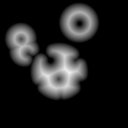
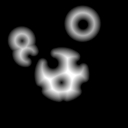
Added distance field outline effect.

Changed region(s): [[0.0312, 0.0, 0.8125, 0.8125]]

diff --git a/cocos2d/CCEffectDFOutline.m b/cocos2d/CCEffectDFOutline.m
@@ -11,14 +11,18 @@
 #import "CCRenderer.h"
 #import "CCTexture.h"
 
-@implementation CCEffectDFOutline
+@implementation CCEffectDFOutline {
+    float _outerMin;
+    float _outerMax;
+    float _fieldScaleFactor;
+}
 
 -(id)init
 {
-    return [self initWithOutlineColor:[CCColor redColor] fillColor:[CCColor blackColor]];
+    return [self initWithOutlineColor:[CCColor redColor] fillColor:[CCColor blackColor] outlineWidth:3 fieldScale:32];
 }
 
--(id)initWithOutlineColor:(CCColor*)outlineColor fillColor:(CCColor*)fillColor
+-(id)initWithOutlineColor:(CCColor*)outlineColor fillColor:(CCColor*)fillColor outlineWidth:(int)outlineWidth fieldScale:(float)fieldScale
 {
     NSArray *uniforms = @[
                           [CCEffectUniform uniform:@"vec4" name:@"u_fillColor" value:[NSValue valueWithGLKVector4:[CCColor blackColor].glkVector4]],
@@ -29,8 +33,8 @@
     
     if((self = [super initWithFragmentUniforms:uniforms vertexUniforms:nil varyings:nil]))
     {
-        _outlineInnerWidth = 0.08;
-        _outlineOuterWidth = 0.08;
+        _fieldScaleFactor = 32.0f; // 32 4096/128 (input distance field size / output df size)
+        self.outlineWidth = 3;
         _fillColor = fillColor;
         _outlineColor = outlineColor;
         
@@ -39,9 +43,9 @@
     return self;
 }
 
-+(id)effectWithOutlineColor:(CCColor*)outlineColor fillColor:(CCColor*)fillColor
++(id)effectWithOutlineColor:(CCColor*)outlineColor fillColor:(CCColor*)fillColor outlineWidth:(int)outlineWidth fieldScale:(float)fieldScale
 {
-    return [[self alloc] initWithOutlineColor:outlineColor fillColor:fillColor];
+    return [[self alloc] initWithOutlineColor:outlineColor fillColor:fillColor outlineWidth:outlineWidth fieldScale:fieldScale];
 }
 
 -(void)buildFragmentFunctions
@@ -61,15 +65,14 @@
                                    
                                    // soft edges
                                    outputColor.a *= smoothstep(min, max, distAlphaMask);
-                                   
-                                   vec4 glowTexel = texture2D(cc_MainTexture, cc_FragTexCoord1);
-//                                       min -= 0.2;
-//                                       max += 0.2;
-                                   
+                                  
                                    min = u_outlineOuterWidth.x;
                                    max = u_outlineOuterWidth.y;
-                                   min = 0.3;
-                                   max = 0.34;
+                                   if(min == 0.5 && max == 0.5)
+                                       return outputColor;
+                                   
+                                   vec4 glowTexel = texture2D(cc_MainTexture, cc_FragTexCoord1);
+                                  
                                    
                                    vec4 glowc = u_outlineColor * smoothstep(min, max, glowTexel.r);
                                    
@@ -100,38 +103,25 @@
         pass.shaderUniforms[weakSelf.uniformTranslationTable[@"u_fillColor"]] = [NSValue valueWithGLKVector4:weakSelf.fillColor.glkVector4];
         pass.shaderUniforms[weakSelf.uniformTranslationTable[@"u_outlineColor"]] = [NSValue valueWithGLKVector4:weakSelf.outlineColor.glkVector4];
         
-        // 0.5 == center(edge),  < 0.5 == outside, > 0.5 == inside
-        float innerMin = 0.5;
-        float innerMax = (0.5 * _outlineInnerWidth) + innerMin;
-        pass.shaderUniforms[weakSelf.uniformTranslationTable[@"u_outlineInnerWidth"]] = [NSValue valueWithGLKVector2:GLKVector2Make(innerMin, innerMax)];
-        
-        float outerMin = (0.5 * (1.0 - _outlineOuterWidth));
-        float outerMax = 0.5;
-        pass.shaderUniforms[weakSelf.uniformTranslationTable[@"u_outlineOuterWidth"]] = [NSValue valueWithGLKVector2:GLKVector2Make(outerMin, outerMax)];
-        
-//        float glowWidthMin = (0.5 * (1.0 - _glowWidth));
-//        float glowWidthMax = 0.5;
-//        pass.shaderUniforms[weakSelf.uniformTranslationTable[@"u_glowWidth"]] = [NSValue valueWithGLKVector2:GLKVector2Make(glowWidthMin, glowWidthMax)];
-//        
-//        pass.shaderUniforms[weakSelf.uniformTranslationTable[@"u_outline"]] = _outline ? [NSNumber numberWithFloat:1.0f] : [NSNumber numberWithFloat:0.0f];
-//        pass.shaderUniforms[weakSelf.uniformTranslationTable[@"u_glow"]] = _glow ? [NSNumber numberWithFloat:1.0f] : [NSNumber numberWithFloat:0.0f];
-//        
-//        GLKVector2 offset = GLKVector2Make(weakSelf.glowOffset.x /  previousPassTexture.contentSize.width, weakSelf.glowOffset.y /  previousPassTexture.contentSize.height);
-//        pass.shaderUniforms[weakSelf.uniformTranslationTable[@"u_glowOffset"]] = [NSValue valueWithGLKVector2:offset];
+        pass.shaderUniforms[weakSelf.uniformTranslationTable[@"u_outlineOuterWidth"]] = [NSValue valueWithGLKVector2:GLKVector2Make(_outerMin, _outerMax)];
         
     } copy]];
     
     self.renderPasses = @[pass0];
 }
 
--(void)setOutlineInnerWidth:(float)outlineInnerWidth
+-(void)setOutlineWidth:(int)outlineWidth
 {
-    _outlineInnerWidth = clampf(outlineInnerWidth, 0.0f, 1.0f);
-}
+    
+    _outlineWidth = outlineWidth;//clampf(outlineOuterWidth, 0.0f, 1.0f);
+    
+    float outlineWidthNormalized = ((float)outlineWidth)/255.0 * _fieldScaleFactor;
+    float edgeSoftness = _outlineWidth * 0.1; // randomly chosen number that looks good to me, based on a 200 pixel spread (note: this should adjustable).
+    
+    // 0.5 == center(edge),  < 0.5 == outside, > 0.5 == inside
+    _outerMin = (0.5 * (1.0 - outlineWidthNormalized));
+    _outerMax = _outerMin + _outerMin * edgeSoftness;
 
--(void)setOutlineOuterWidth:(float)outlineOuterWidth
-{
-    _outlineOuterWidth = clampf(outlineOuterWidth, 0.0f, 1.0f);
 }
 
 @end

diff --git a/cocos2d-ui-tests/tests/CCEffectsTest.m b/cocos2d-ui-tests/tests/CCEffectsTest.m
@@ -3,15 +3,12 @@
 #import "CCNodeColor.h"
 #import "CCEffectNode.h"
 
-enum DFTest { DISTANCE_FIELD, OUTLINE };
-
 @interface CCEffectsTest : TestBase @end
 @implementation CCEffectsTest {
 #if CC_EFFECTS_EXPERIMENTAL
     CCEffectDistanceField* _distanceFieldEffect;
 #endif
     CCEffectDFOutline* _outlineEffect;
-    enum DFTest _currentEffect;
 }
 
 -(id)init
@@ -28,7 +25,6 @@ enum DFTest { DISTANCE_FIELD, OUTLINE };
 
 -(void)setupDFOutlineEffectTest
 {
-    _currentEffect = OUTLINE;
     self.subTitle = @"Distance Field Outline Test";
     
     CCSprite *environment = [CCSprite spriteWithImageNamed:@"Images/MountainPanorama.jpg"];
@@ -36,7 +32,7 @@ enum DFTest { DISTANCE_FIELD, OUTLINE };
     environment.anchorPoint = ccp(0.5, 0.5);
     environment.position = ccp(0.5f, 0.5f);
     
-    _outlineEffect = [CCEffectDFOutline effectWithOutlineColor:[CCColor redColor] fillColor:[CCColor blackColor]];
+    _outlineEffect = [CCEffectDFOutline effectWithOutlineColor:[CCColor redColor] fillColor:[CCColor blackColor] outlineWidth:3 fieldScale:32];
     
     CCSprite *sampleSprite = [CCSprite spriteWithImageNamed:@"Images/output.png"];
     sampleSprite.position = ccp(0.5, 0.5);
@@ -59,31 +55,31 @@ enum DFTest { DISTANCE_FIELD, OUTLINE };
     slider.anchorPoint = ccp(0.5f, 0.5f);
     slider.scale = 0.8;
     
-    [slider setTarget:self selector:@selector(outlineInnerWidthChange:)];
+    [slider setTarget:self selector:@selector(outlineWidthChagne:)];
     
-    CCSlider* slider2 = [[CCSlider alloc] initWithBackground:background andHandleImage:handle];
-    [slider2 setBackgroundSpriteFrame:backgroundHilite forState:CCControlStateHighlighted];
-    slider2.positionType = CCPositionTypeNormalized;
-    slider2.position = ccp(0.15f, 0.5f);
-    
-    slider2.preferredSizeType = CCSizeTypeMake(CCSizeUnitNormalized, CCSizeUnitUIPoints);
-    slider2.preferredSize = CGSizeMake(0.5f, 10);
-    slider2.rotation = 90;
-    slider2.anchorPoint = ccp(0.5f, 0.5f);
-    slider2.scale = 0.8;
-    
-    [slider2 setTarget:self selector:@selector(outlineOuterWidthChange:)];
-
     [self.contentNode addChild:environment];
     [self.contentNode addChild:slider];
-    [self.contentNode addChild:slider2];
     [self.contentNode addChild:sampleSprite];
+    
+    // 6 pixel block used for comparison;
+    CCNodeColor* block = [CCNodeColor nodeWithColor:[CCColor greenColor]];
+    block.contentSize = CGSizeMake(6.0, 6.0);
+    block.position = ccp(0.424, 0.324);
+    block.positionType = CCPositionTypeNormalized;
+    block.rotation = 32;
+//    [self.contentNode addChild:block];
+}
+
+- (void)outlineWidthChagne:(id)sender
+{
+    const int outlineWidthMax = 6;
+    CCSlider* slider = sender;
+    _outlineEffect.outlineWidth = slider.sliderValue * outlineWidthMax;
 }
 
 #if CC_EFFECTS_EXPERIMENTAL
 -(void)setupDistanceFieldEffectTest
 {
-    _currentEffect = DISTANCE_FIELD;
     self.subTitle = @"Distance Field Effect Test";
     
     //    CCNodeColor* environment = [CCNodeColor nodeWithColor:[CCColor whiteColor]];
@@ -166,25 +162,16 @@ enum DFTest { DISTANCE_FIELD, OUTLINE };
     [self.contentNode addChild:slider3];
 }
 
-#endif
-
 - (void)outlineInnerWidthChange:(id)sender
 {
     CCSlider* slider = sender;
-    if(_currentEffect == DISTANCE_FIELD)
-        _distanceFieldEffect.outlineInnerWidth = slider.sliderValue;
-    else if(_currentEffect == OUTLINE)
-        _outlineEffect.outlineInnerWidth = slider.sliderValue;
-        
+    _distanceFieldEffect.outlineInnerWidth = slider.sliderValue;
 }
 
 - (void)outlineOuterWidthChange:(id)sender
 {
     CCSlider* slider = sender;
-    if(_currentEffect == DISTANCE_FIELD)
-        _distanceFieldEffect.outlineOuterWidth = slider.sliderValue;
-    else if(_currentEffect == OUTLINE)
-        _outlineEffect.outlineOuterWidth = slider.sliderValue;
+    _distanceFieldEffect.outlineOuterWidth = slider.sliderValue;
 }
 
 - (void)glowWidthChange:(id)sender
@@ -202,6 +189,8 @@ enum DFTest { DISTANCE_FIELD, OUTLINE };
 {
     _distanceFieldEffect.outline = !_distanceFieldEffect.outline;
 }
+
+#endif
 
 #pragma mark DropShadow
 

diff --git a/cocos2d/CCEffectDFOutline.h b/cocos2d/CCEffectDFOutline.h
@@ -19,11 +19,14 @@
 /// @name Accessing Effect Attributes
 /// -----------------------------------------------------------------------
 
+/** Color of the outline */
 @property (nonatomic, strong) CCColor* fillColor;
+
+/** Color of the distance field */
 @property (nonatomic, strong) CCColor* outlineColor;
 
-@property (nonatomic) float outlineInnerWidth;
-@property (nonatomic) float outlineOuterWidth;
+/** Outline width pixel width of the outline */
+@property (nonatomic) int outlineWidth;
 
 /// -----------------------------------------------------------------------
 /// @name Initializing a CCEffectDFOutline object
@@ -39,11 +42,17 @@
 /**
  *  Initializes a CCEffectDFOutline object with the supplied parameters.
  *
- *  @param glowColor Color of the glow, a [CCColor blackColor] will result in an opaque black drop shadow.
+ *  @param outlineColor Color of the outline, a [CCColor blackColor] will result in an opaque black outline.
+ *  @param fillColor Color of the fillColor, a [CCColor blackColor] will result in an opaque black fillColor.
+ *  @param outlineWidth pixel width of the outline.
+ *  @param fieldScale, defined by the distance field generation proccess, for example a distance field that 
+ *  was generated with a 4096/4096 input and output a 128/128 texture would have a fieldScale of 32 (
+ *  input size / output size). Note: this parameter could be automatically calculated if we assume that all 
+ *  distance fields are generated from a 4096 input.
  *
  *  @return The CCEffectDFOutline object.
  */
--(id)initWithOutlineColor:(CCColor*)outlineColor fillColor:(CCColor*)fillColor;
+-(id)initWithOutlineColor:(CCColor*)outlineColor fillColor:(CCColor*)outlineColor outlineWidth:(int)outlineWidth fieldScale:(float)fieldScale;
 
 
 /// -----------------------------------------------------------------------
@@ -57,6 +66,6 @@
  *
  *  @return The CCEffectDFOutline object.
  */
-+(id)effectWithOutlineColor:(CCColor*)outlineColor fillColor:(CCColor*)fillColor;
++(id)effectWithOutlineColor:(CCColor*)outlineColor fillColor:(CCColor*)fillColor outlineWidth:(int)outlineWidth fieldScale:(float)fieldScale;
 
 @end

diff --git a/cocos2d/ccConfig.h b/cocos2d/ccConfig.h
@@ -155,6 +155,6 @@
 #endif
 
 #ifndef CC_EFFECTS_EXPERIMENTAL
-#define CC_EFFECTS_EXPERIMENTAL 1
+#define CC_EFFECTS_EXPERIMENTAL 0
 #endif
 
